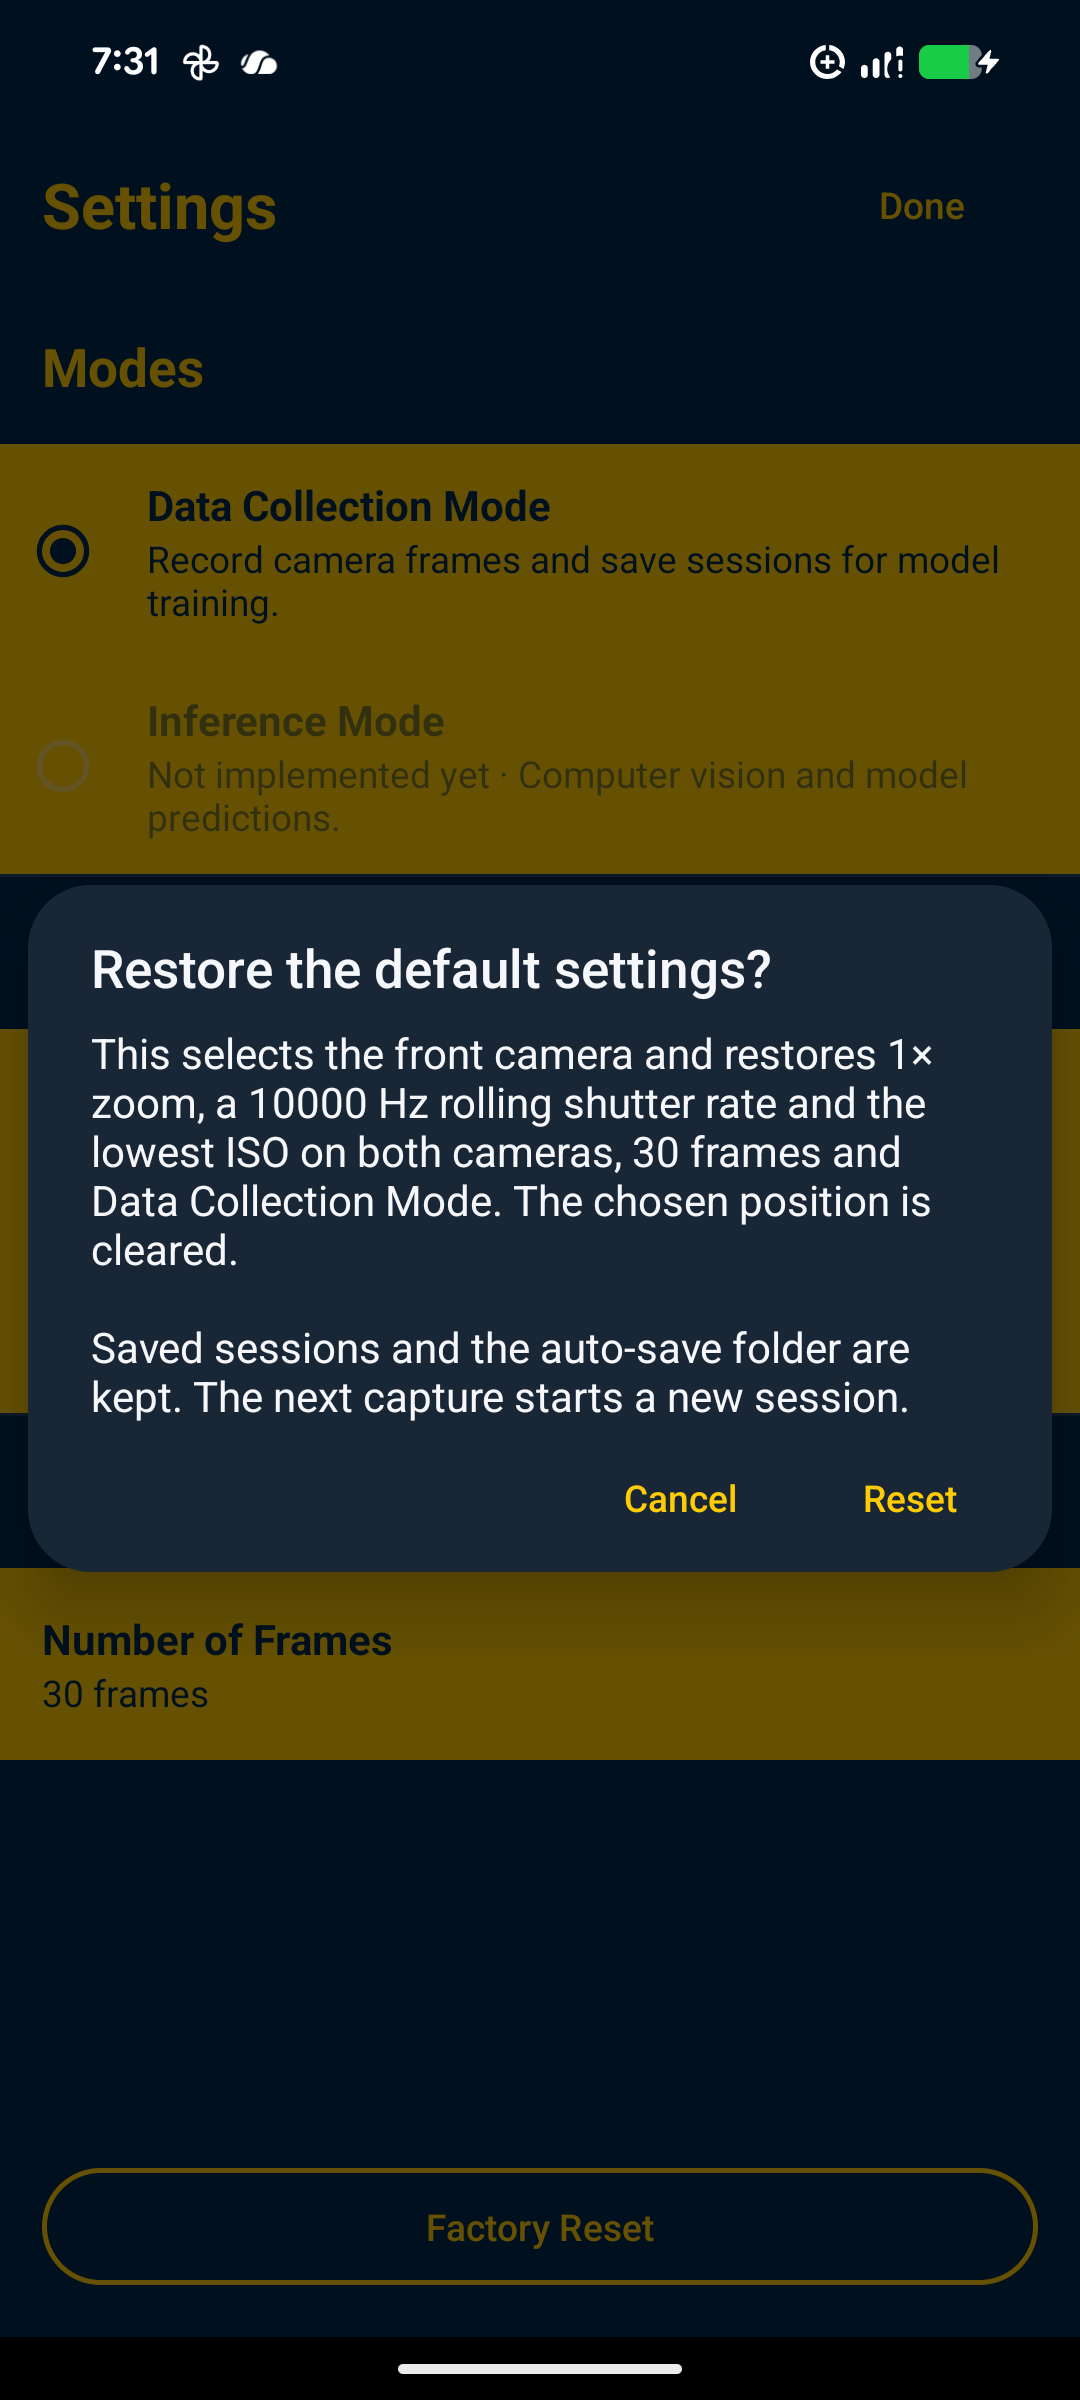
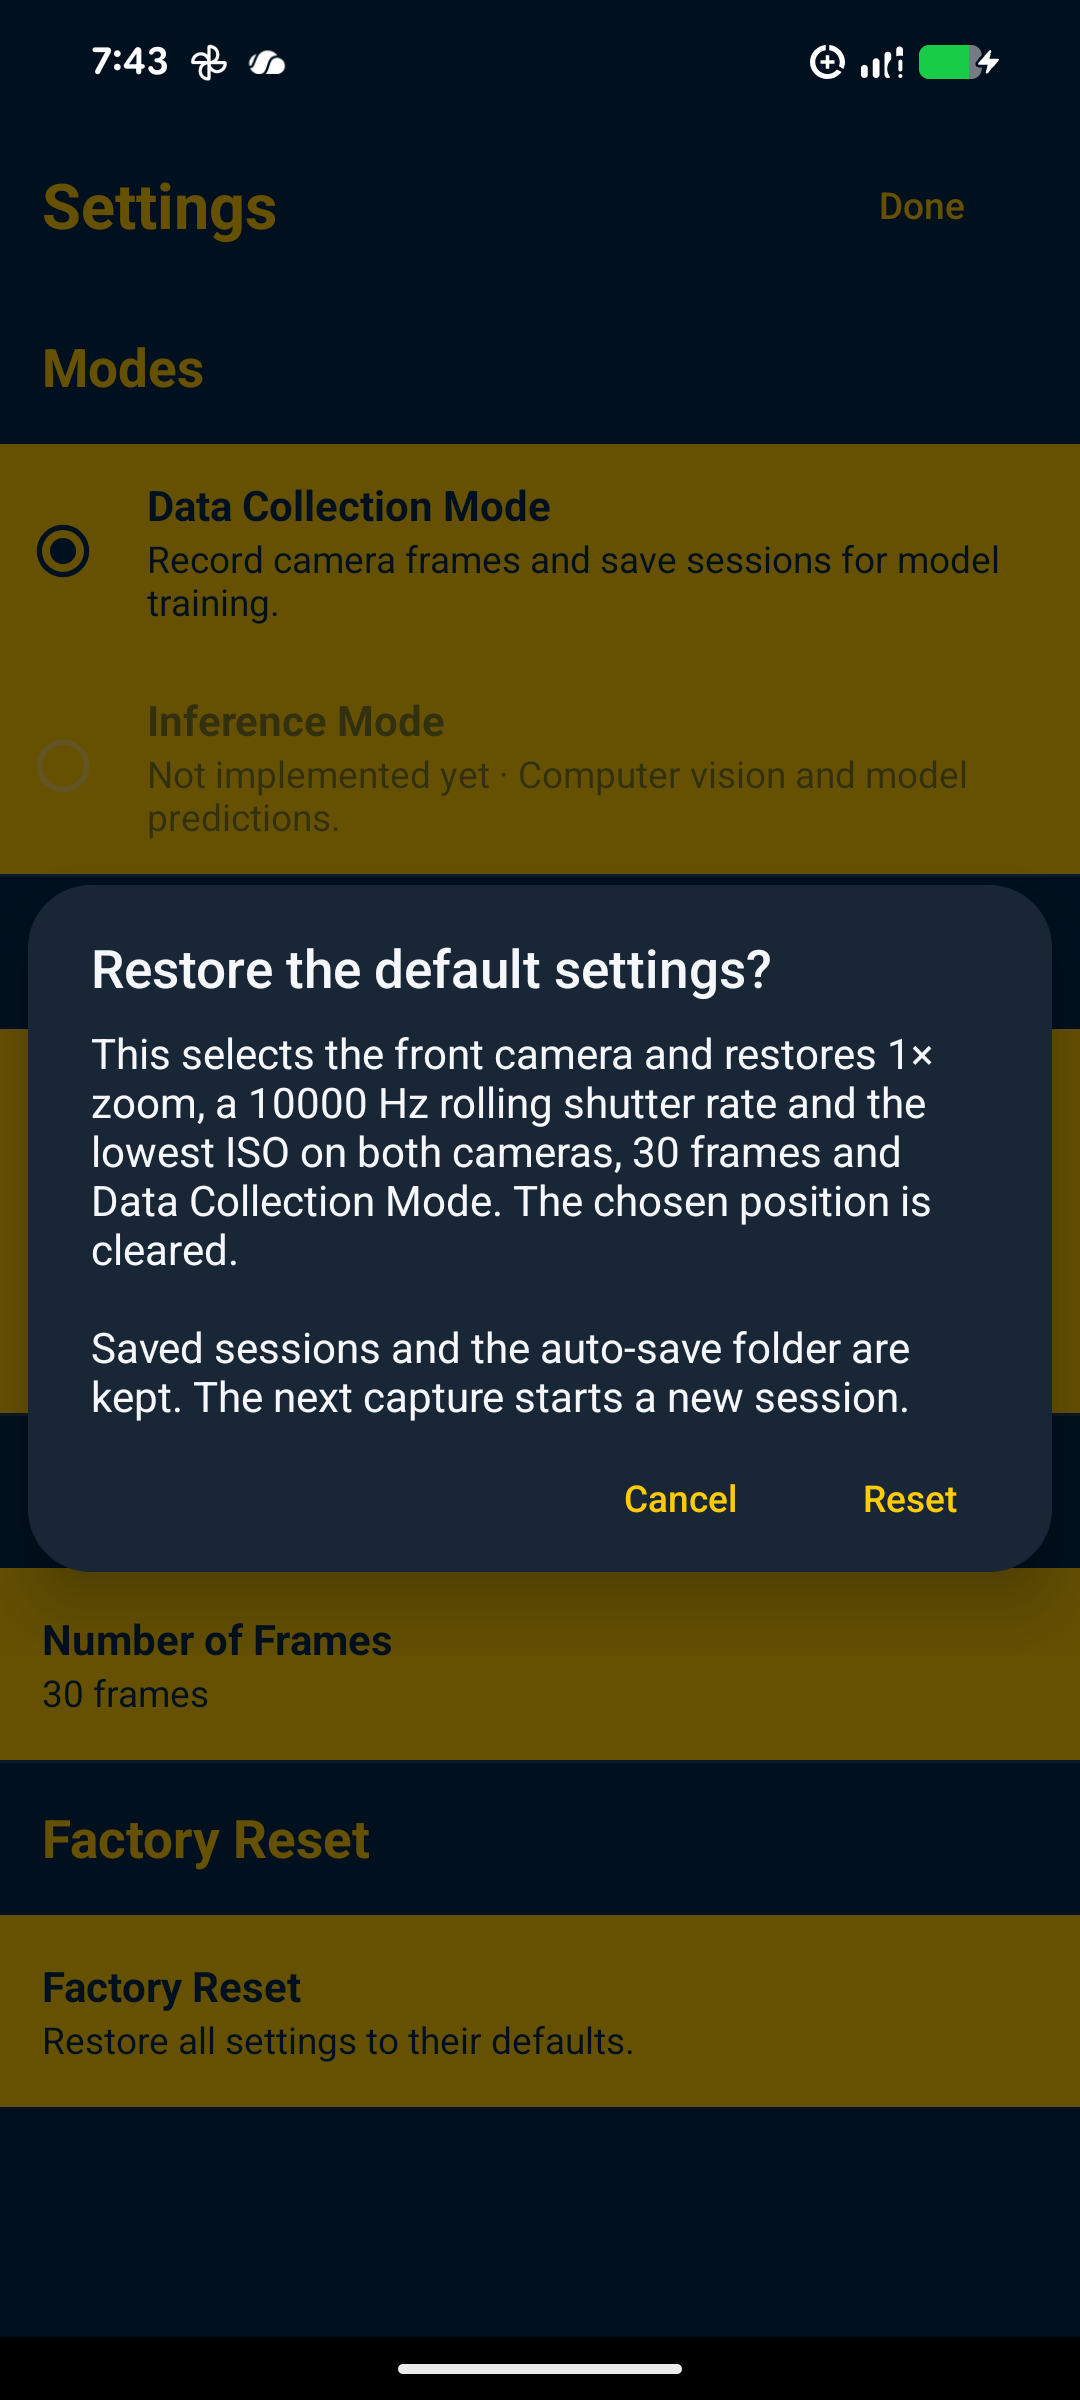
<DKA - November 14th 2026> {Make Factory Reset its own Settings section}
Factory Reset is now a section like Camera Settings and Recording, holding the
Factory Reset button, instead of a button fixed at the bottom of the screen.

diff --git a/app/src/main/java/com/developer27/qvlp/SettingsActivity.kt b/app/src/main/java/com/developer27/qvlp/SettingsActivity.kt
@@ -26,7 +26,6 @@ class SettingsActivity : AppCompatActivity() {
         setContentView(R.layout.settings_activity)
         findViewById<android.widget.TextView>(R.id.settingsTitle).setText(R.string.settings)
         findViewById<android.widget.Button>(R.id.settingsDone).setOnClickListener { finish() }
-        findViewById<android.widget.Button>(R.id.factoryResetButton).setOnClickListener { confirmFactoryReset() }
         if (savedInstanceState == null) {
             supportFragmentManager.beginTransaction()
                 .replace(R.id.settings_container, SettingsFragment()).commit()
@@ -34,7 +33,7 @@ class SettingsActivity : AppCompatActivity() {
     }
 
     /** Nothing is restored until the operator confirms. The camera screen then reopens with the defaults. */
-    private fun confirmFactoryReset() {
+    internal fun confirmFactoryReset() {
         androidx.appcompat.app.AlertDialog.Builder(this).setTitle(R.string.factory_reset_title)
             .setMessage(R.string.factory_reset_message)
             .setPositiveButton(R.string.factory_reset_confirm) { _, _ ->
@@ -69,6 +68,11 @@ class SettingsActivity : AppCompatActivity() {
 
         override fun onCreatePreferences(savedInstanceState: Bundle?, rootKey: String?) {
             setPreferencesFromResource(R.xml.root_preferences, rootKey)
+            // Bound first: the reset must work even when the camera's own settings cannot be shown.
+            requireNotNull(findPreference<Preference>("factory_reset")).setOnPreferenceClickListener {
+                (requireActivity() as SettingsActivity).confirmFactoryReset()
+                true
+            }
             bindModes()
             CaptureLengthPreferences.bind(this)
             shutterRate = requireNotNull(findPreference("shutter_rate"))

diff --git a/README.md b/README.md
@@ -35,7 +35,7 @@ Taken on a Pixel 8a. The files are in [`screenshots/`](screenshots), numbered in
 
 ## Using Q-VLP
 
-**Settings** has three groups. **Modes** is two radio buttons: **Data Collection Mode** is selected and runs the recording workflow; **Inference Mode** is faded, marked **Not implemented yet** and cannot be selected. **Camera Settings** has **Rolling Shutter Rate** and **ISO Rate**. **Recording** has **Number of Frames**. A **Factory Reset** button sits at the bottom. There is no Help section.
+**Settings** has four sections. **Modes** is two radio buttons: **Data Collection Mode** is selected and runs the recording workflow; **Inference Mode** is faded, marked **Not implemented yet** and cannot be selected. **Camera Settings** has **Rolling Shutter Rate** and **ISO Rate**. **Recording** has **Number of Frames**. **Factory Reset** has the **Factory Reset** button. There is no Help section.
 
 1. Tap **Position** and enter the position ID. Only the ID is typed: there are no X/Y coordinates and no list to import.
 2. Mount the phone with the camera lens over the mark, at the same height for every position.
@@ -179,7 +179,7 @@ A capture is always a number of frames; there is no duration mode. The number is
 
 ### Fixed settings and research checks
 
-**Settings → Factory Reset** asks for confirmation and then puts every setting back the way a new installation starts: the front camera, 1× zoom, a 10000 Hz rolling shutter rate and the lowest ISO on both cameras, 30 frames and Data Collection Mode, with no position chosen. Saved sessions and the auto-save folder are kept, and the next capture starts a new session. On each camera the app uses the resolution closest to the planned 1280 × 960 that covers the sensor, at 30 fps, and holds focus and white balance still. Resolution, frame-rate, focus and white-balance values saved by earlier versions are ignored. If a camera cannot meet these fixed values, a notice on the camera screen explains why and the other camera can be selected.
+The **Factory Reset** section of Settings holds one button, **Factory Reset**. It asks for confirmation and then puts every setting back the way a new installation starts: the front camera, 1× zoom, a 10000 Hz rolling shutter rate and the lowest ISO on both cameras, 30 frames and Data Collection Mode, with no position chosen. Saved sessions and the auto-save folder are kept, and the next capture starts a new session. On each camera the app uses the resolution closest to the planned 1280 × 960 that covers the sensor, at 30 fps, and holds focus and white balance still. Resolution, frame-rate, focus and white-balance values saved by earlier versions are ignored. If a camera cannot meet these fixed values, a notice on the camera screen explains why and the other camera can be selected.
 
 Capture is checked before the countdown and again immediately before camera capture. On the selected camera, 1× zoom, fixed full-aspect-ratio resolution, a rolling shutter rate from the list, manual ISO, target FPS and the app-held focus and white balance must be valid. Camera readiness also requires confirmed focus/white-balance controls and two stable actual exposure/ISO/frame-duration readings with the expected sensor crop. Unknown measurements or a reported frame duration longer than 33,350,000 ns prevent capture. Nominal 30 fps allows at most 0.05% sensor-timing rounding; the requested FPS must still be at least 30. Sensor frame duration confirms the reported cadence; sustained delivered FPS still needs measurement on the phone and is logged separately. Later drift generates capture warnings.
 
